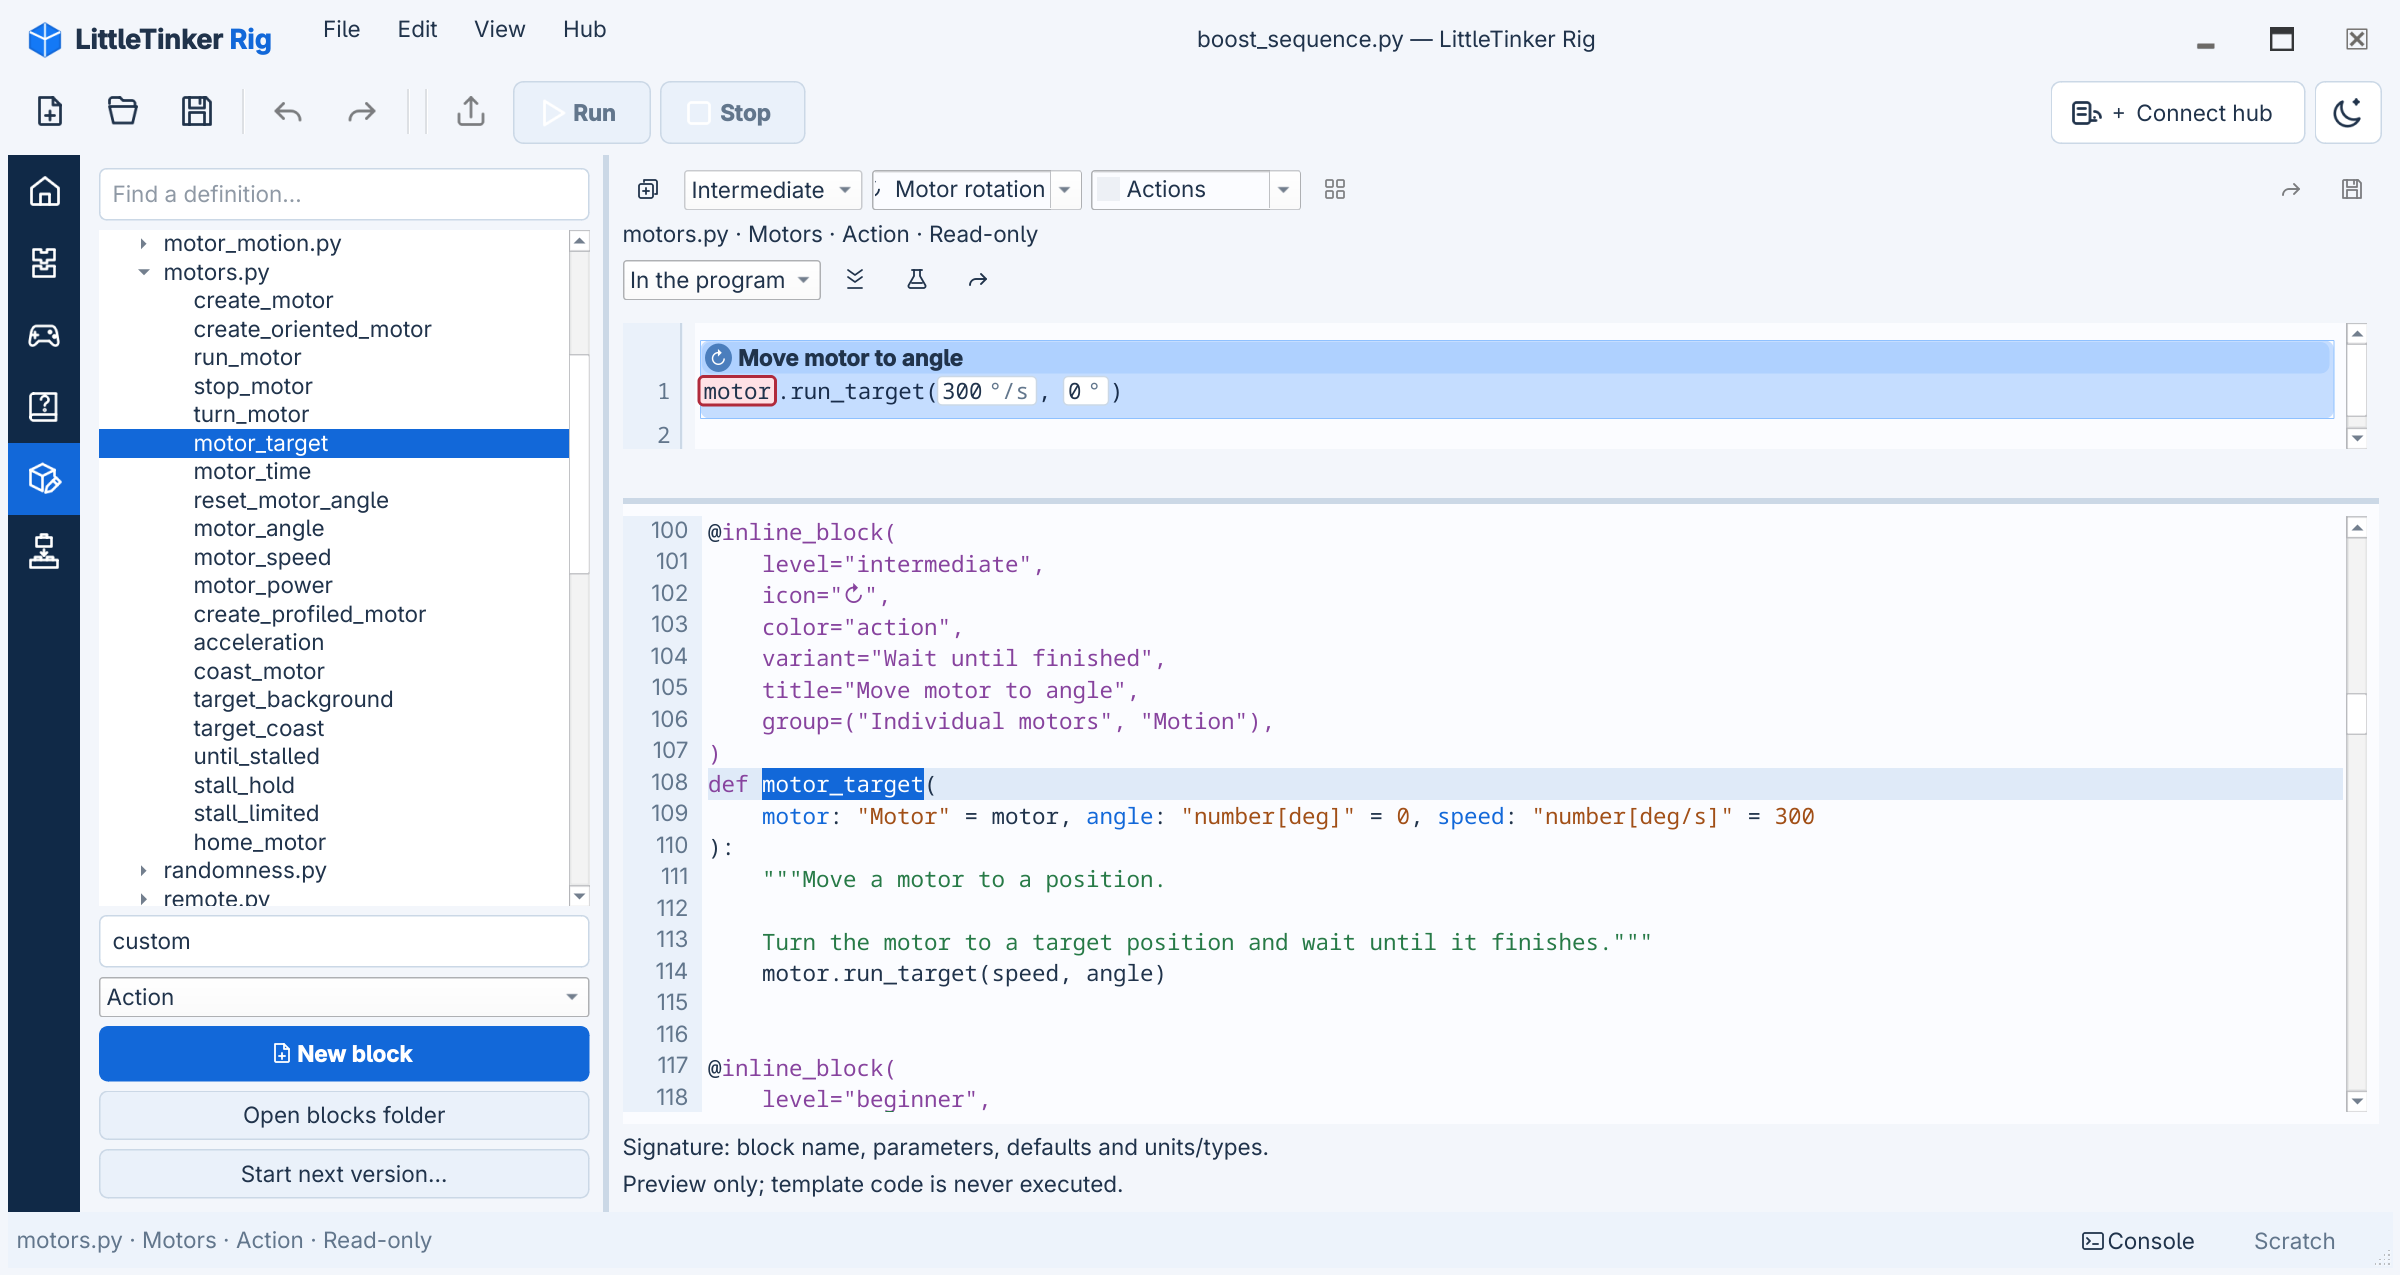
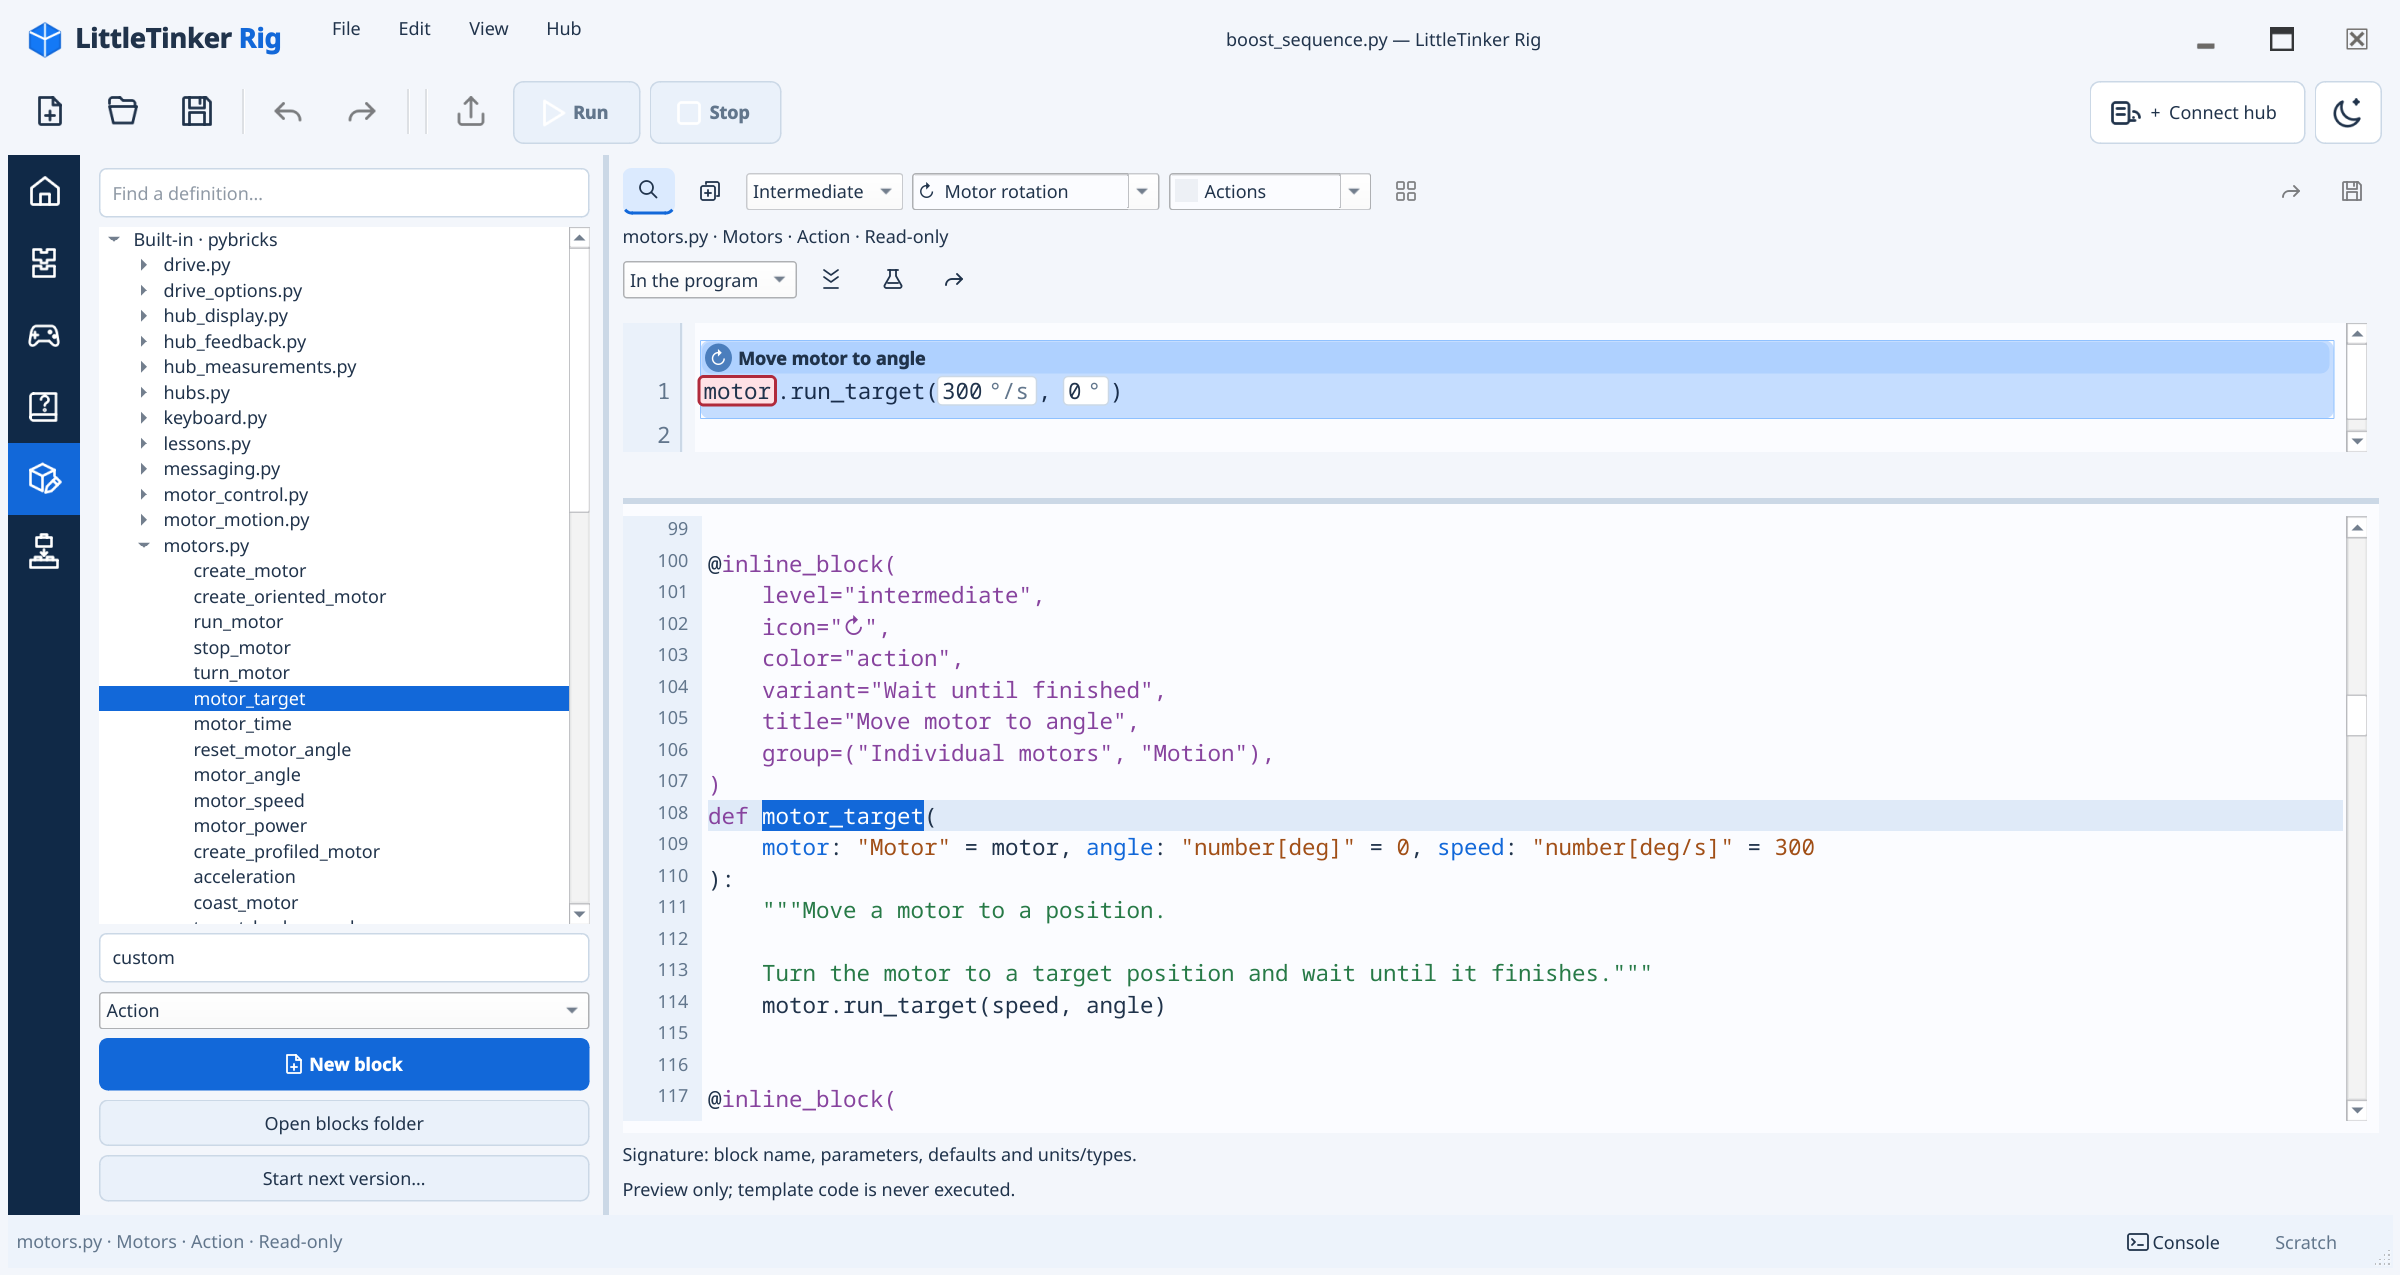
Keep block authoring readable on narrow screens

diff --git a/little_tinker_rig/qt/authoring.py b/little_tinker_rig/qt/authoring.py
@@ -255,7 +255,7 @@ class BlockEditor(QWidget):
                 lambda: self.create(STARTERS[self.starters.currentData()])
             )
         )
-        left = QWidget()
+        left = self.browser_pane = QWidget()
         layout = QVBoxLayout(left)
         layout.addWidget(self.search)
         layout.addWidget(self.search_status)
@@ -389,6 +389,13 @@ class BlockEditor(QWidget):
         right = QWidget()
         layout = QVBoxLayout(right)
         row = QHBoxLayout()
+        self.browser_button = QToolButton()
+        self.browser_button.setIcon(svg_icon("search"))
+        self.browser_button.setCheckable(True)
+        self.browser_button.setChecked(True)
+        self.browser_button.setProperty("translationSources", {})
+        self.browser_button.toggled.connect(self.set_browser_visible)
+        row.addWidget(self.browser_button)
         row.addWidget(self.copy_button)
         row.addWidget(self.level)
         row.addWidget(self.icon)
@@ -409,6 +416,9 @@ class BlockEditor(QWidget):
         layout = QVBoxLayout(self)
         layout.setContentsMargins(0, 0, 0, 0)
         layout.addWidget(splitter)
+        self._browser_compact = None
+        self._browser_visible = True
+        self.refresh_browser_button()
         self.update_status()
         self.apply_theme()
 
@@ -417,6 +427,7 @@ class BlockEditor(QWidget):
             svg_icon("document-new", tint=colors()["accent_text"])
         )
         self.catalog_button.setIcon(svg_icon("catalog"))
+        self.browser_button.setIcon(svg_icon("search"))
         self.preview.apply_theme()
         self.card.itemDelegate().apply_theme()
         self.card.viewport().update()
@@ -1077,6 +1088,10 @@ class BlockEditor(QWidget):
 
     def resizeEvent(self, event):
         super().resizeEvent(event)
+        compact = event.size().width() < 800
+        if compact != self._browser_compact:
+            self._browser_compact = compact
+            self.set_browser_visible(not compact)
         orientation = (
             Qt.Orientation.Horizontal
             if event.size().height() < 430
@@ -1085,6 +1100,26 @@ class BlockEditor(QWidget):
         if self.preview_splitter.orientation() != orientation:
             self.preview_splitter.setOrientation(orientation)
             self.resize_preview(self.expand.isChecked())
+
+    def set_browser_visible(self, visible):
+        self._browser_visible = visible
+        self.browser_pane.setVisible(visible)
+        show_metadata = not (self._browser_compact and visible)
+        for widget in (self.level, self.icon, self.color, self.catalog_button):
+            widget.setVisible(show_metadata)
+        self.browser_button.blockSignals(True)
+        self.browser_button.setChecked(visible)
+        self.browser_button.blockSignals(False)
+        self.refresh_browser_button()
+
+    def refresh_browser_button(self):
+        label = (
+            tr("Hide definitions")
+            if self._browser_visible
+            else tr("Show definitions")
+        )
+        self.browser_button.setToolTip(label)
+        self.browser_button.setAccessibleName(label)
 
     def resize_preview(self, expanded):
         total = sum(self.preview_splitter.sizes())
@@ -1285,6 +1320,7 @@ class BlockEditor(QWidget):
 
     def retranslate(self):
         localize(self)
+        self.refresh_browser_button()
         self.icon.retranslate()
         self.color.retranslate()
         self.rebuild_tree()

diff --git a/tests/test_authoring.py b/tests/test_authoring.py
@@ -520,6 +520,65 @@ def test_definition_search_reports_misses_and_restores_tree_after_escape(
         page.close()
 
 
+def test_narrow_definition_editor_keeps_python_readable_with_console(
+    tmp_path, qt_app
+):
+    from PySide6.QtCore import Qt
+    from PySide6.QtTest import QTest
+
+    from little_tinker_rig.qt.app import Studio
+
+    window = Studio(tmp_path / "main.py")
+    window.confirm_close = lambda *_: True
+    window.setMinimumWidth(0)
+    window.resize(800, 620)
+    window.show()
+    try:
+        window.change_language("ru")
+        window.set_mode(3)
+        window.console_dock.show()
+        QTest.qWait(90)
+        page = window.block_editor
+        source = page.code.toPlainText()
+        assert window.width() == 800
+        assert not page.browser_pane.isVisible()
+        assert page.preview_splitter.orientation() == Qt.Orientation.Horizontal
+        assert page.code.viewport().width() >= 350
+        assert page.browser_button.toolTip() == "Показать определения"
+        assert page.browser_button.accessibleName() == page.browser_button.toolTip()
+
+        QTest.mouseClick(page.browser_button, Qt.MouseButton.LeftButton)
+        QTest.qWait(50)
+        assert window.width() == 800
+        assert page.browser_pane.isVisible()
+        assert not page.level.isVisible()
+        assert page.browser_button.toolTip() == "Скрыть определения"
+        assert page.code.toPlainText() == source
+
+        QTest.mouseClick(page.browser_button, Qt.MouseButton.LeftButton)
+        assert not page.browser_pane.isVisible()
+        assert page.level.isVisible()
+        assert page.code.toPlainText() == source
+        window.resize(930, 620)
+        QTest.qWait(50)
+        assert page.browser_pane.isVisible()
+        assert page.level.isVisible()
+        motor = next(
+            snippet
+            for snippet in window.session.available_snippets
+            if snippet.identity.endswith("/motor_target")
+        )
+        page.open_definition(motor)
+        QTest.qWait(50)
+        assert window.width() == 930
+        assert page.icon.width() >= (
+            page.icon.fontMetrics().horizontalAdvance(page.icon.currentText()) + 30
+        )
+    finally:
+        window.close()
+        window.deleteLater()
+
+
 def test_metadata_controls_are_source_edits_with_undo_and_no_manifest_changes(
     tmp_path, qt_app
 ):

diff --git a/little_tinker_rig/qt/appearance.py b/little_tinker_rig/qt/appearance.py
@@ -29,6 +29,7 @@ class AppearanceChoice(QComboBox):
         self.setEditable(True)
         self.setInsertPolicy(QComboBox.InsertPolicy.NoInsert)
         self.setMinimumContentsLength(9)
+        self.setMinimumWidth(135 if color else 165)
         self.setSizeAdjustPolicy(
             QComboBox.SizeAdjustPolicy.AdjustToMinimumContentsLengthWithIcon
         )

diff --git a/doc/en/block-editor.md b/doc/en/block-editor.md
@@ -14,6 +14,11 @@ Collections, modules and blocks appear on the left. Search includes descriptions
 If nothing matches, the editor says so without moving the Python cursor. Clear the
 query with its icon or press Escape to return to the tree; branches then regain
 their previous open state.
+In a very narrow editor, the definition browser starts collapsed so Python stays
+readable. Use the search icon at the start of the editor toolbar to show or hide
+the browser. While it is open, the level, icon, color and catalog controls are
+hidden to make room; hide the browser to edit those properties.
+
 Built-in definitions are read-only examples. **Copy to my collection** copies the
 selected function, including its decorators, imports and reachable helper functions.
 The copy has its own identity; it does not replace the built-in block.
